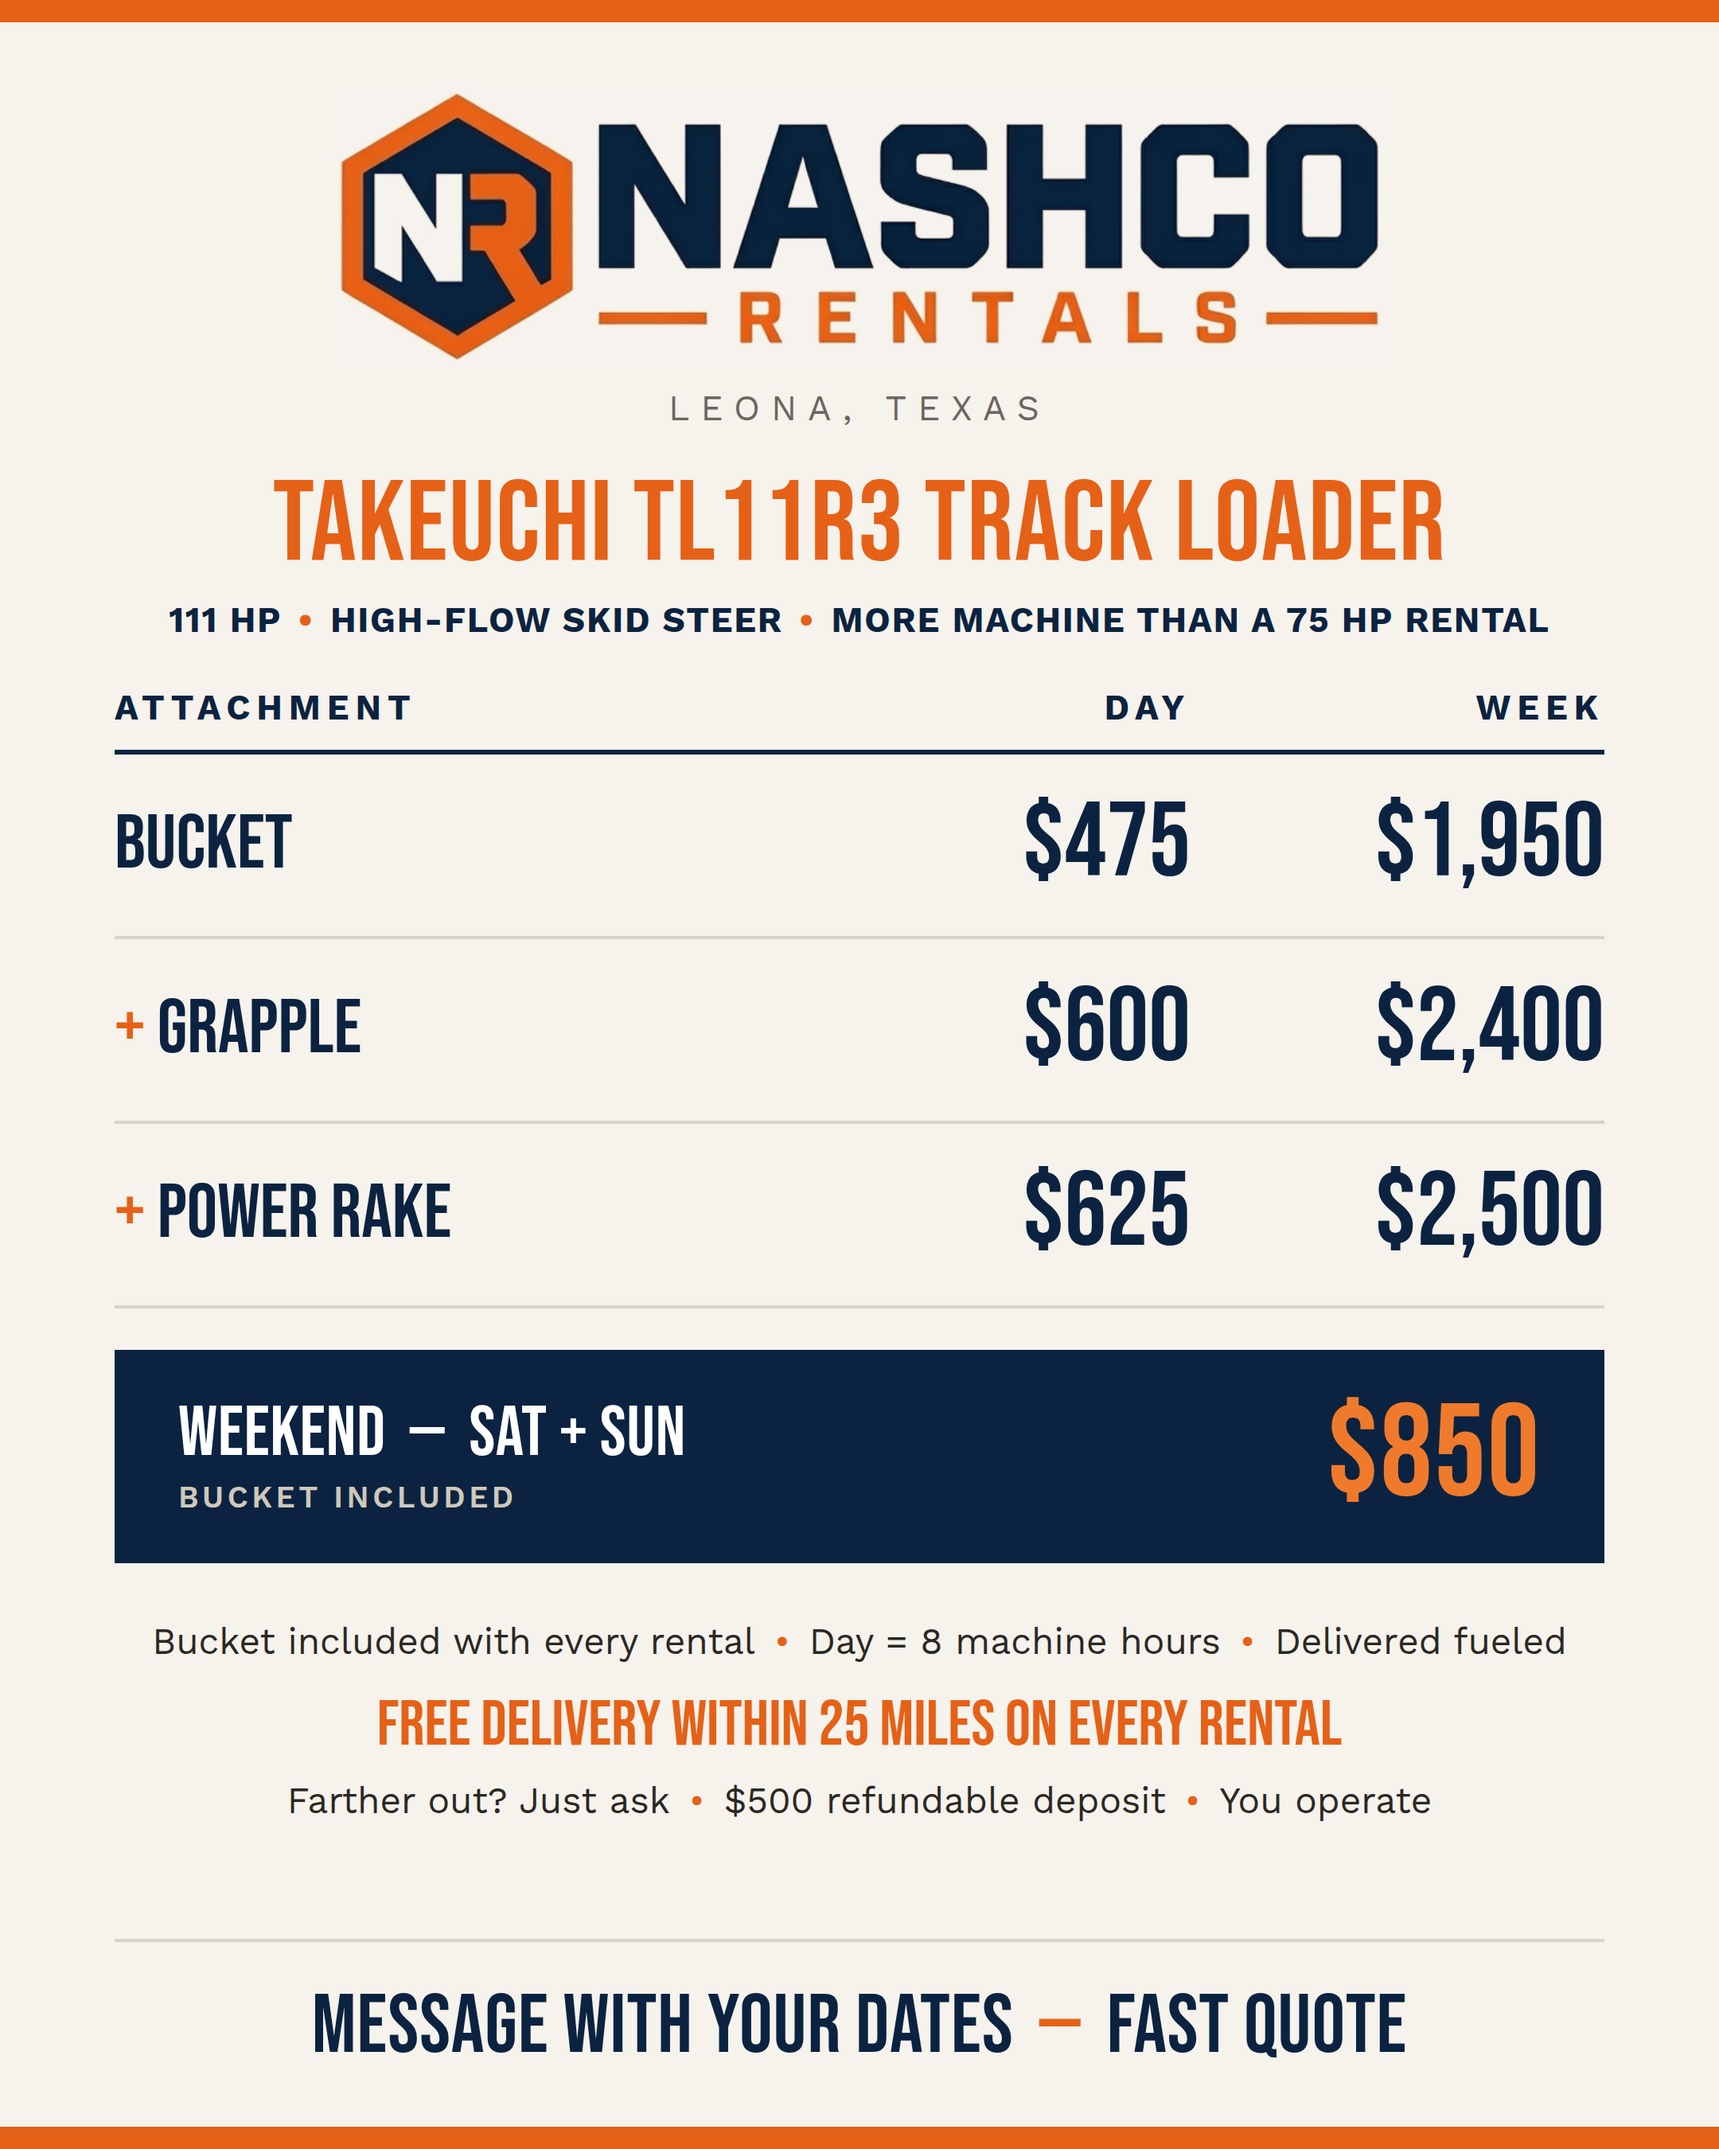
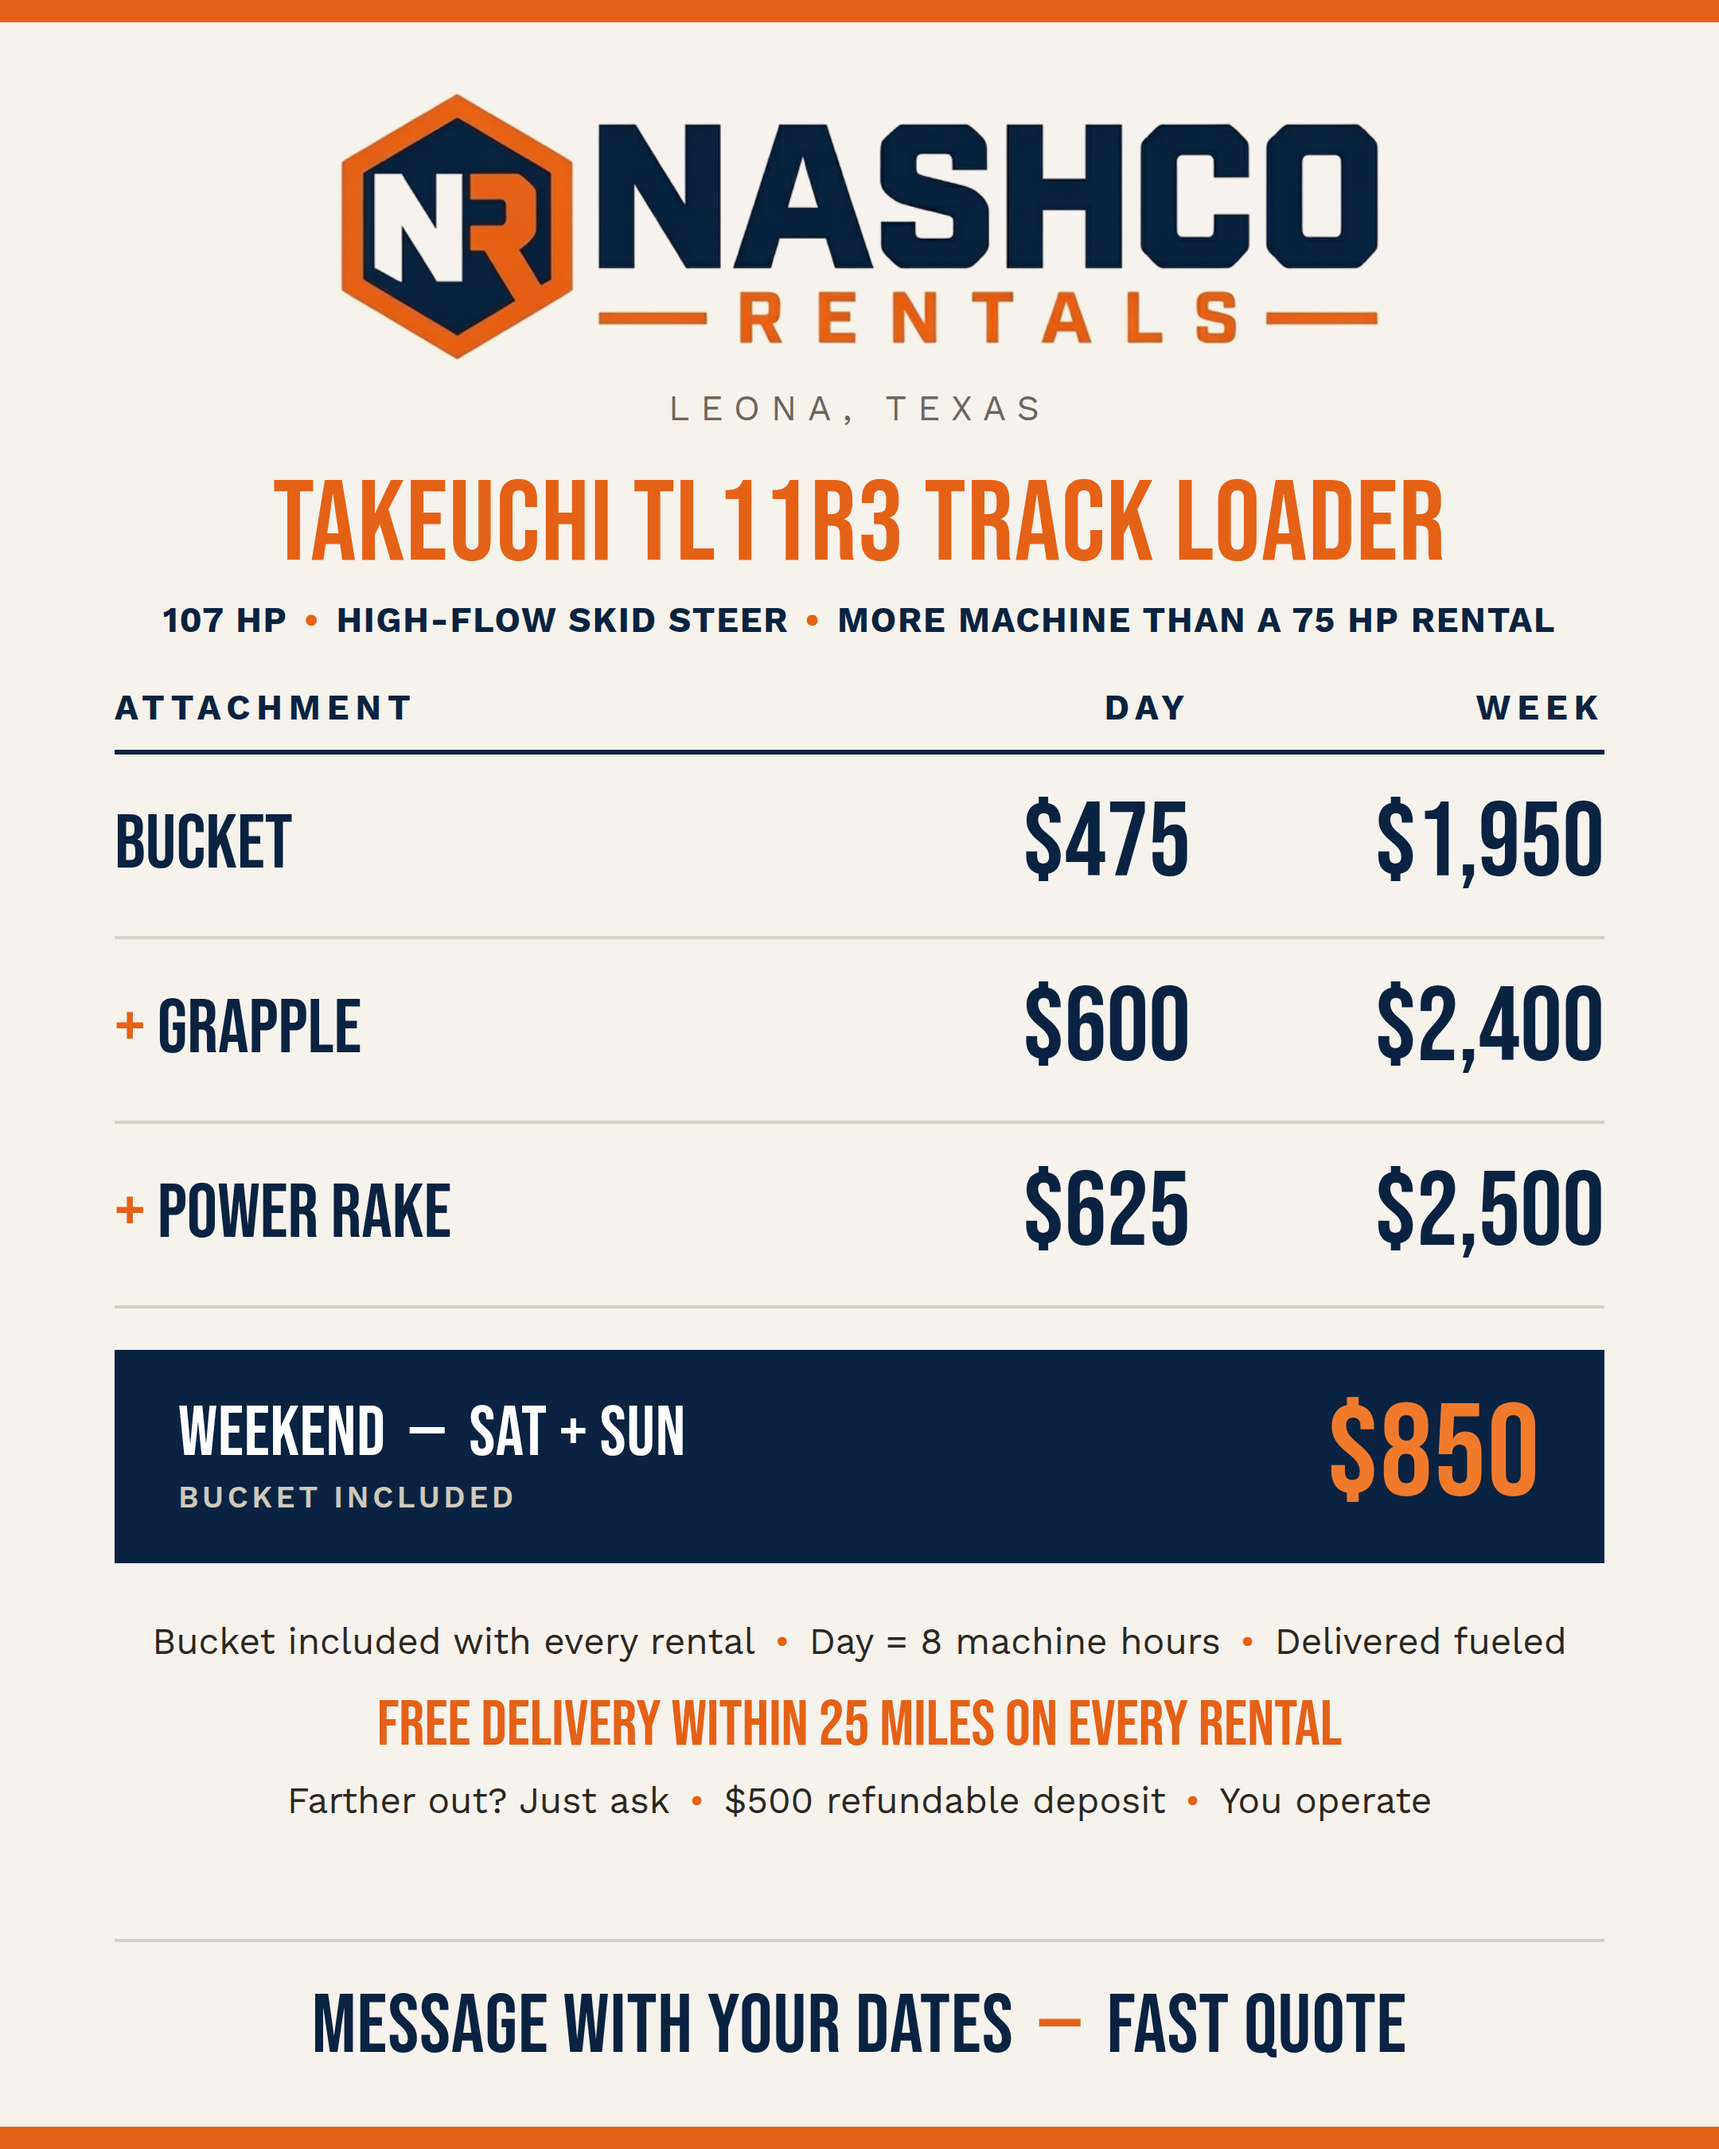
Rate card: correct horsepower to 107
Claude-Session: https://claude.ai/code/session_01MjBdAn1tqXy1S9X7E6qMHj

Changed region(s): [[0.0931, 0.28, 0.8995, 0.3111]]

diff --git a/marketing/rate-card.html b/marketing/rate-card.html
@@ -42,7 +42,7 @@
   </div>
   <div class="machine">
     <h2 class="bebas">TAKEUCHI TL11R3 TRACK LOADER</h2>
-    <div class="specs">111 HP<span>•</span>High-Flow Skid Steer<span>•</span>More machine than a 75 HP rental</div>
+    <div class="specs">107 HP<span>•</span>High-Flow Skid Steer<span>•</span>More machine than a 75 HP rental</div>
   </div>
 
   <table>
